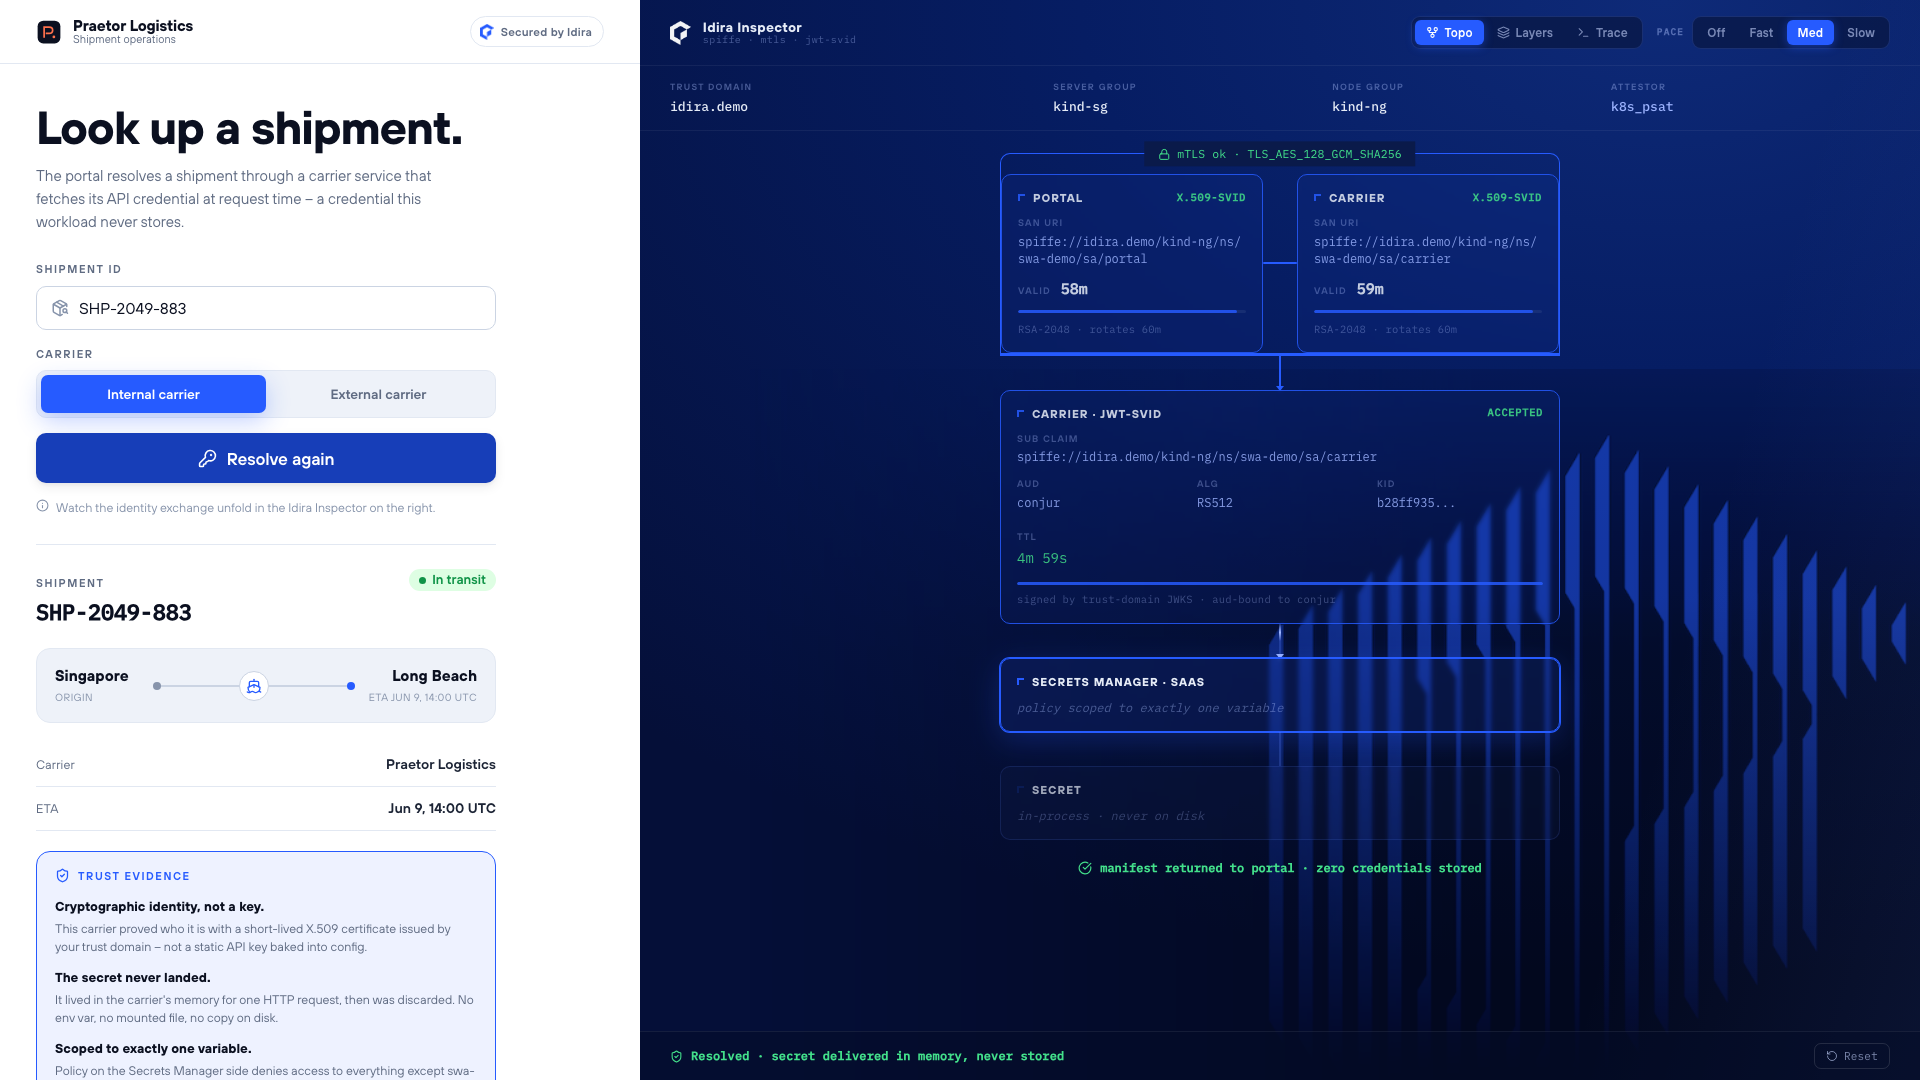
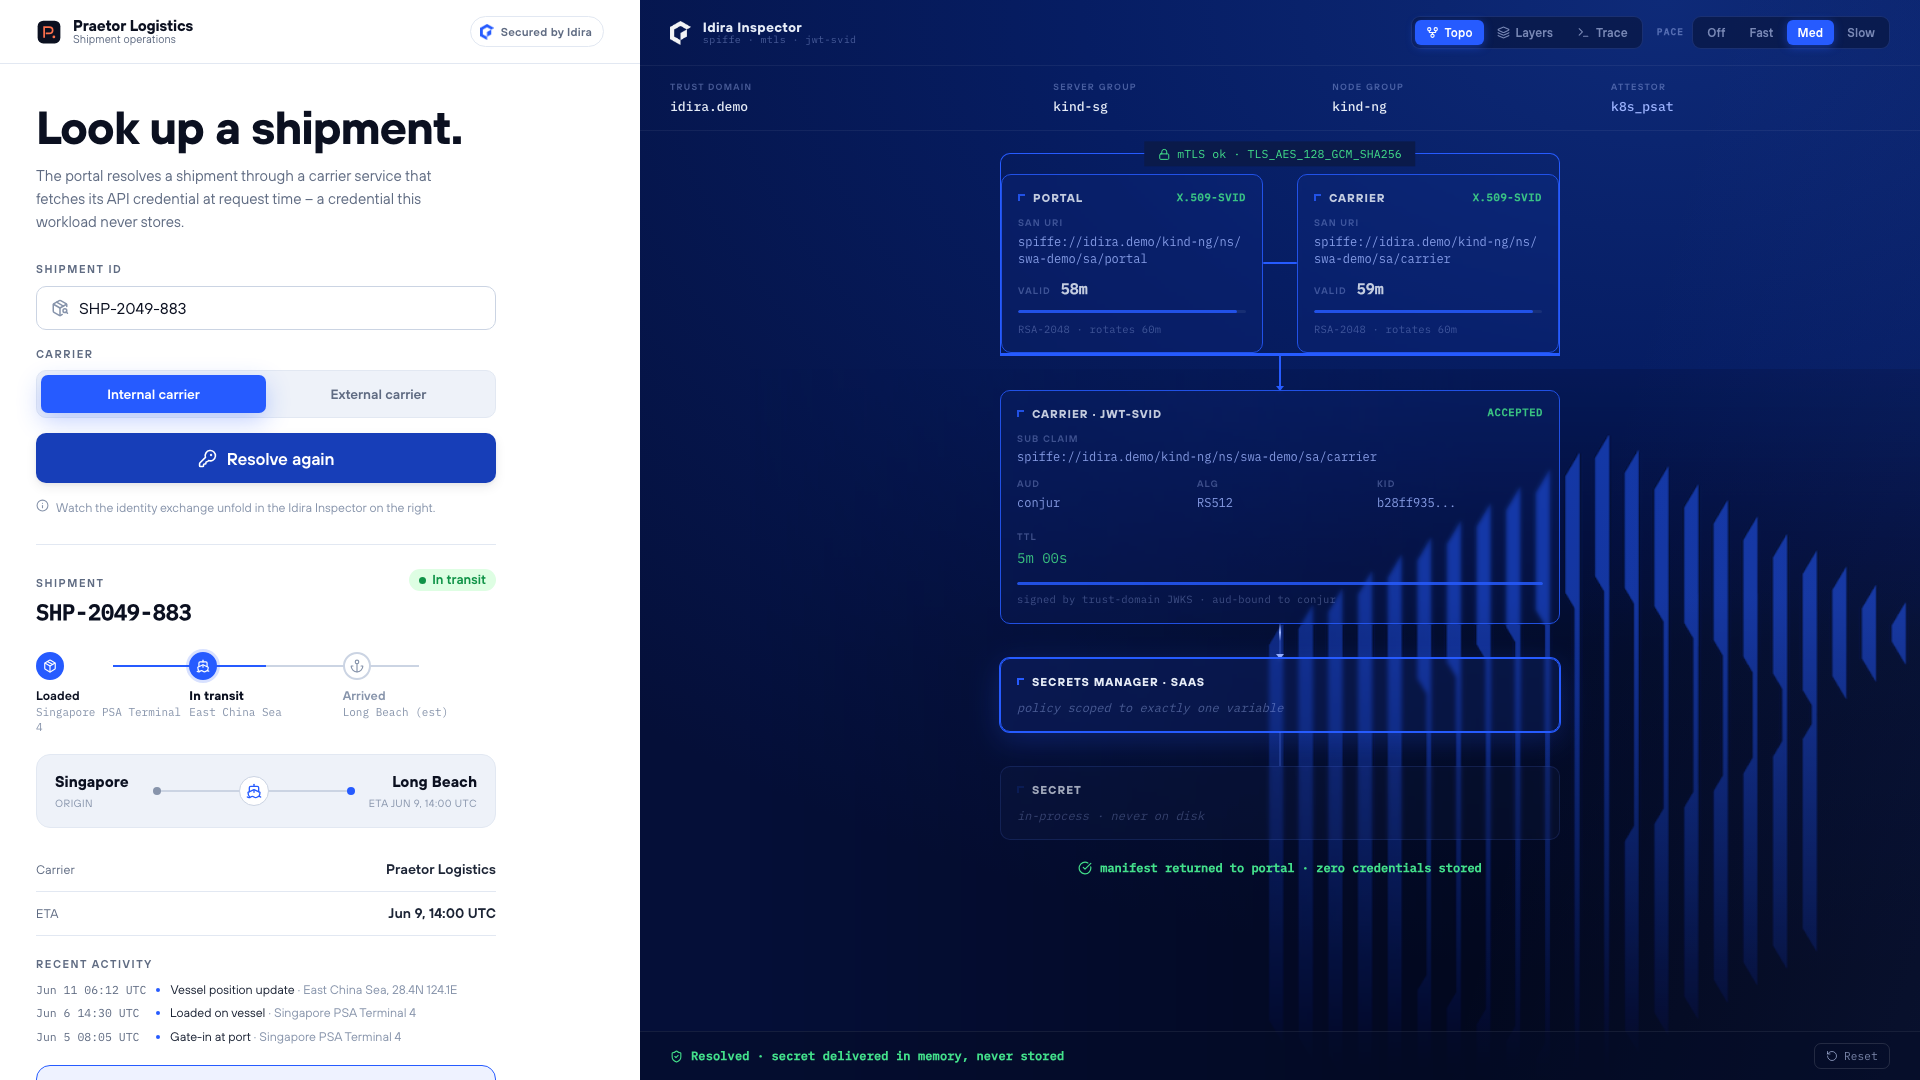
docs(portal-ui): refresh README, under-the-hood, screenshots; bump UI to 0.1.0
Joe approved shipping forward. Documentation, hero screenshots, and the
Playwright visual-regression baselines all updated to match the new UI
(split-pane Idira inspector + shipping-platform additions on the left).

- README "What this is" + "What you will see when it runs" rewritten to
  describe the new architecture (three swappable inspector views, carrier
  toggle, voyage progress strip, recent-activity feed). Old flip-card
  language removed. "RESOLVE SECRET" corrected to sentence-case
  "Resolve secret" to match the rendered button. Demo-viewport note added.
- docs/under-the-hood.md Beat 2 "Inspect the rejected cert" updated to
  describe the new dashed-orange ACME card treatment + foreign-URI
  callout chip instead of the removed flip-card interaction.
- docs/img/portal-resolved.png and portal-walking.png recaptured at
  1920x1080 from a fresh deploy, showing the new shipping-platform
  surface (voyage progress, container detail micro-line, recent activity).
- apps/portal/ui-src/package.json bumped 0.0.0 -> 0.1.0 to mark the
  first real release of the UI package.
- ui-tests/screenshots/baseline/ all 8 PNGs regenerated against the
  current UI (post shimmer-fix, post shipping-platform additions).
  Playwright passes 16/16 from a clean state.

diff --git a/README.md b/README.md
@@ -25,7 +25,7 @@
 
 A self-contained sandbox that runs the full Idira Secure Workload Access (SWA) stack on a single kind cluster on your Mac. Two Go demo apps (`carrier` and `portal`) authenticate to a real Idira Secrets Manager - SaaS tenant using short-lived SPIFFE-issued credentials and fetch a real secret. No API key is ever baked into an image, mounted from a file, or typed into a config. Time from `make up` to a running portal is about four minutes on a clean clone.
 
-The point is to make the identity exchange visible. The portal UI splits left and right so you can watch each SVID get issued, each mTLS handshake complete, and each Secrets Manager REST call land, in real time, on every click. Click any lit card in the trust diagram to flip it open and see decoded claims, full certificate metadata, or the raw bearer-token exchange.
+The point is to make the identity exchange visible. The portal UI is a split-pane Idira product surface: a Praetor Logistics shipment-lookup portal on the left (the consumer app, with voyage progress, manifest, and recent-activity feed) and a live Idira Inspector on the right (the identity machinery, visualized). Three swappable inspector views (Topology, Layers, Trace) all read the same engine state so you can pick the framing that lands best with the room. A Carrier toggle (Internal / External) flips between the success path and the M7 foreign-trust-domain rejection, which terminates at the wire layer in Go's standard `crypto/tls` verifier and surfaces the rejected cert's SPIFFE URI in an orange callout chip.
 
 New to SPIFFE or workload identity? Start with [Concepts](https://github.com/infamousjoeg/idira-swa-demo/wiki/Concepts) on the Wiki, or work through the interactive visualizations at [thesecretlivesofidentity.com](https://thesecretlivesofidentity.com).
 
@@ -41,7 +41,7 @@ make portforward PORT=18080         # serve the portal on http://localhost:18080
 make down                           # tear everything back down
 ```
 
-Open `http://localhost:18080` once `make portforward PORT=18080` is running, then click **RESOLVE SECRET** to watch the trust diagram walk.
+Open `http://localhost:18080` once `make portforward PORT=18080` is running, then click **Resolve secret** to watch the trust diagram walk. Present at 1920x1080 or larger; the layout was designed and visual-regression-tested at that demo viewport.
 
 The first `make up` takes about four minutes: it loads SWA container images into the kind cluster, applies Terraform against your tenant, installs the two Helm charts, and builds the demo Go services. Subsequent cycles after `make down` finish in about two minutes.
 
@@ -62,9 +62,13 @@ Hand-installing instead of running `make setup`? See [Manual prereqs](https://gi
 
 ## What you will see when it runs
 
-The left pane is a plausible internal shipment-lookup portal: type a shipment ID, click **RESOLVE SECRET**, get a shipment record. The right pane is a live SPIFFE trust diagram that paints itself in real time as the resolve flows through, with cards for the trust hierarchy, the portal-to-carrier mTLS edge, the JWT-SVID hero panel, and the Secrets Manager exchange.
+The left pane is a plausible internal shipment-lookup portal: type a shipment ID, pick a carrier (Internal or External), click **Resolve secret**, get back a shipment record with a voyage progress strip (Loaded -> In transit -> Arrived), manifest fields with container details, and a recent-activity feed. The right pane is the live Idira Inspector: the same SPIFFE trust machinery rendered three different ways. Pick the view that lands best with your room.
 
-Every lit card is clickable: flip it open to see decoded JWT claims, full X.509 metadata, or the raw bearer-token exchange. A click resolves in well under 200 ms; the diagram paces itself over about 2.25 seconds by default so a human can follow each stage. The pace toggle in the inspector header and `?pace=off` in the URL give you faster or fully real-time behavior on demand.
+- **Topology** (default) is a vertical trust-path diagram with workload cards joined under an mTLS bracket, descending through JWT-SVID, Secrets Manager, and the returned secret.
+- **Layers** is the brand "gates of defense" rendered structurally: five stacked horizontal layers (Node attestation, Mutual TLS, JWT-SVID, Access token, Secret) illuminating left-to-right as the request passes through them.
+- **Trace** is the streaming identity log: a compact node strip across the top and timestamped SSE-style event rows below.
+
+Switching views mid-resolve preserves engine state. A click resolves in well under 200 ms on the wire; the inspector paces itself for legibility (Off / Fast / Med / Slow segmented in the chrome, or `?pace=off` in the URL for fully real-time behavior). The TTL meter at the top of the inspector reads the real `exp` of the freshly minted JWT-SVID and counts down live. The carrier toggle on the left resets the engine so you can A/B the success and rejection paths cleanly.
 
 Full screenshot walkthrough and wire-trace breakdown: [Portal tour](https://github.com/infamousjoeg/idira-swa-demo/wiki/Portal-tour) and [Wire trace](https://github.com/infamousjoeg/idira-swa-demo/wiki/Wire-trace).
 

diff --git a/docs/under-the-hood.md b/docs/under-the-hood.md
@@ -353,11 +353,13 @@ stages below are dimmed and marked `SKIPPED` -- they genuinely never executed.
 A `TRUST BOUNDARY` tile appears at the bottom of the inspector with copy
 explaining the rejection in SPIFFE terms.
 
-**Inspect the rejected cert.** Click the ACME card to flip it. The back shows
-the foreign cert's fields: empty Subject (SPIFFE identity lives in the SAN URI),
-Issuer `CN=acme.courier root` (Acme's own self-signed CA), the SAN URI, and
-the signature algorithm. This is the actual certificate the portal rejected --
-not a hardcoded label, not a simulation.
+**Inspect the rejected cert.** The Topology inspector renders the ACME card in
+dashed orange treatment with the foreign SPIFFE URI shown in a `#FF7A57`
+callout chip directly on the card. The portal left pane shows the same URI
+in an orange-bordered chip below the "502 - resolve failed" bar. This is the
+actual certificate the portal rejected, extracted from the typed
+`*tls.CertificateVerificationError.UnverifiedCertificates` returned by Go's
+standard verifier -- not a hardcoded label, not a simulation.
 
 **The takeaway.** Trust-domain boundaries are real and SWA enforces them today.
 Cross-trust-domain federation (where two trust domains can agree to verify
@@ -365,8 +367,8 @@ each other's identities) is on the SWA roadmap. Until federation ships, there
 is no UI toggle, no manual override, and no demo trick that will make this
 handshake succeed -- the rejection is the lesson.
 
-**Toggle back.** Click **INTERNAL** in the selector. The diagram resets to
-its bootstrap state; the Beat 1 flow is ready to run again.
+**Toggle back.** Click **Internal carrier** in the selector. The engine resets
+to its bootstrap state; the Beat 1 flow is ready to run again.
 
 ---
 
